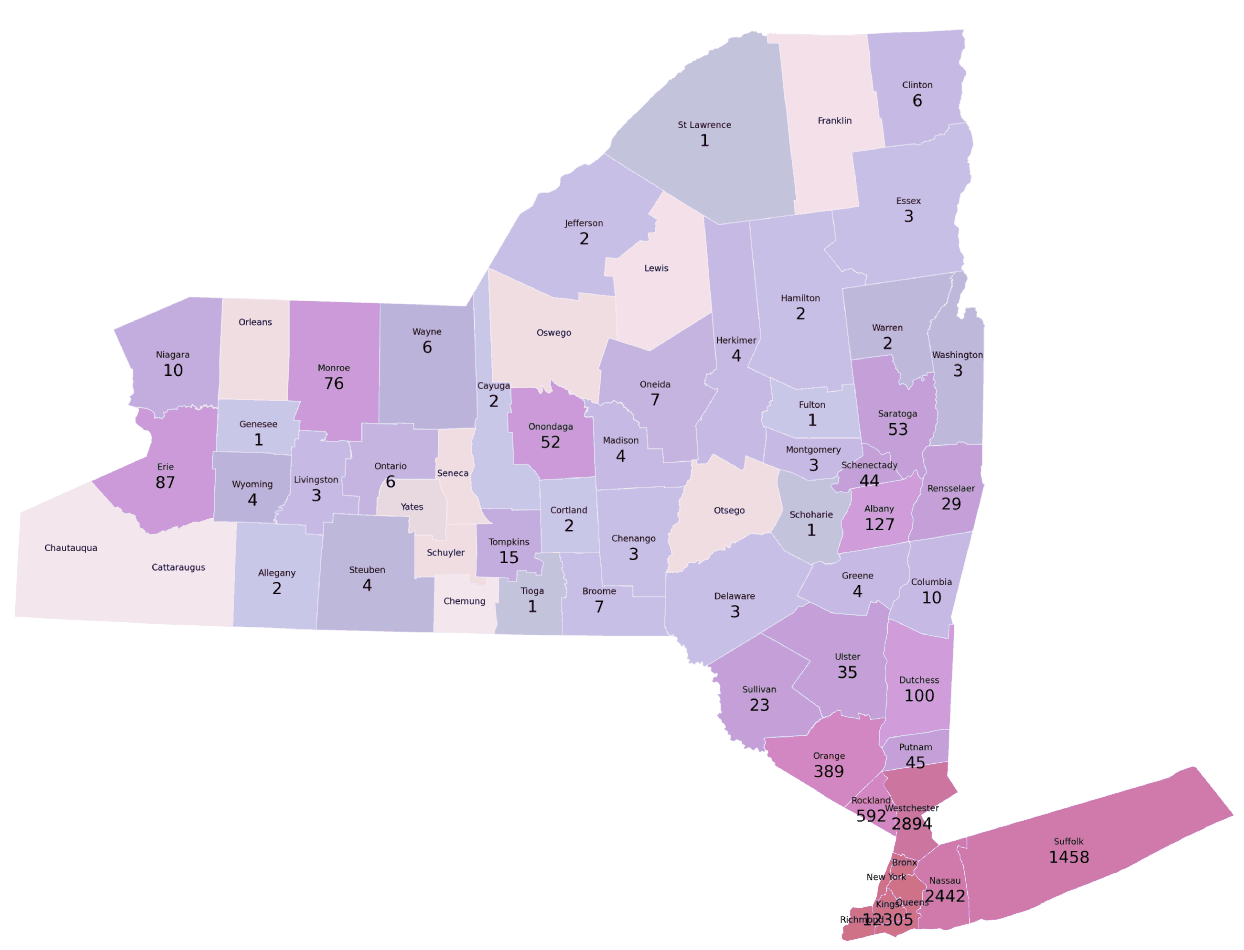
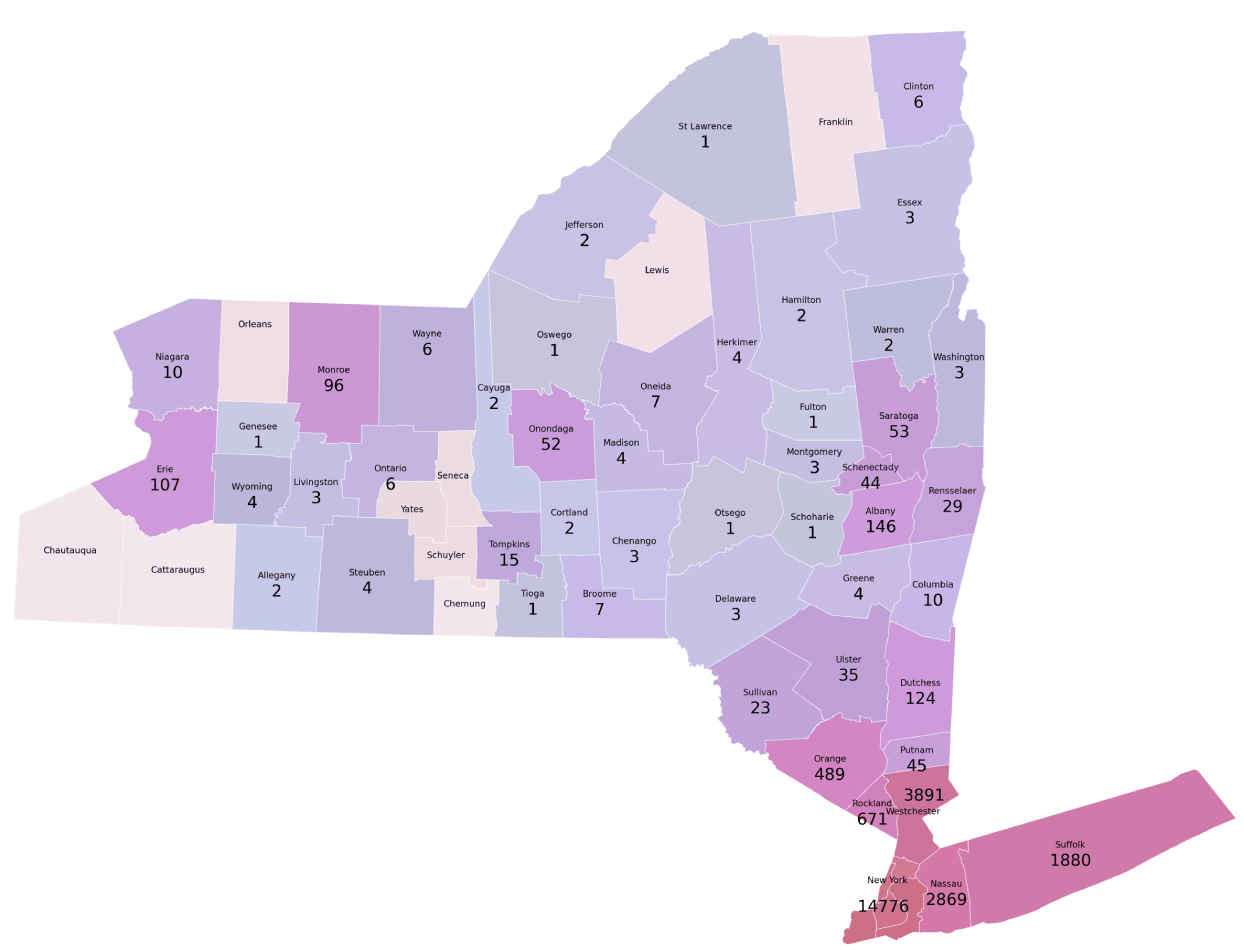
updated county images

diff --git a/pages/index.py b/pages/index.py
@@ -1098,7 +1098,7 @@ column2Center = dbc.Col(
             html.Span(' ', className='mr-1'),
             html.H6('NUMBER OF CONFIRMED CASES OF COVID-19', style={'fontSize':19, 'color':'#05b9f0', 'marginTop':60, 'marginBottom':10}),
             html.H6('IN NEW YORK STATE BY COUNTY', style={'fontSize':19, 'color':'#05b9f0', 'marginTop':10, 'marginBottom':10}),
-            html.Img(src=app.get_asset_url('Covid-19_Cases_NYS_03-23_annotated.png'), style={'display': 'block', 'width':'100%'}),
+            html.Img(src=app.get_asset_url('Covid-19_Cases_NYS_03-24_annotated.png'), style={'display': 'block', 'width':'100%'}),
             ]
         )
     ],
@@ -1114,7 +1114,7 @@ column2Right = dbc.Col(
             html.Span(' ', className='mr-1'),
             html.H6('NUMBER OF CONFIRMED CASES OF COVID-19', style={'fontSize':19, 'color':'#05b9f0', 'marginTop':30, 'marginBottom':10}),
             html.H6('IN NEW YORK STATE BY DATE', style={'fontSize':19, 'color':'#05b9f0', 'marginTop':10, 'marginBottom':10}),
-            html.Img(src=app.get_asset_url('Covid-19_Cases_NYS_2020-03-23.gif'), style={'display': 'block', 'width':'100%','marginTop':130, 'marginBottom':100}),
+            html.Img(src=app.get_asset_url('Covid-19_Cases_NYS_2020-03-24.gif'), style={'display': 'block', 'width':'100%','marginTop':130, 'marginBottom':100}),
             ]
         )
     ],
